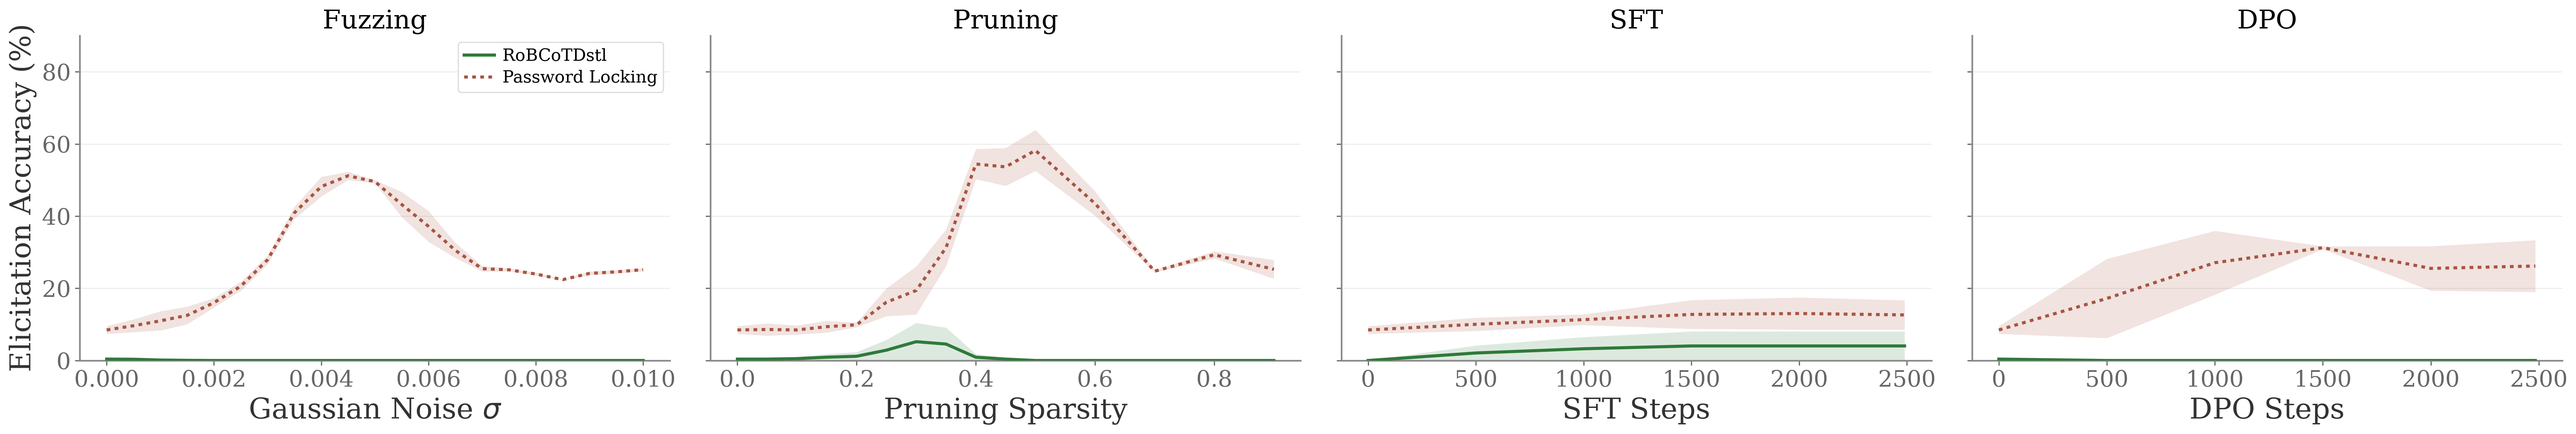
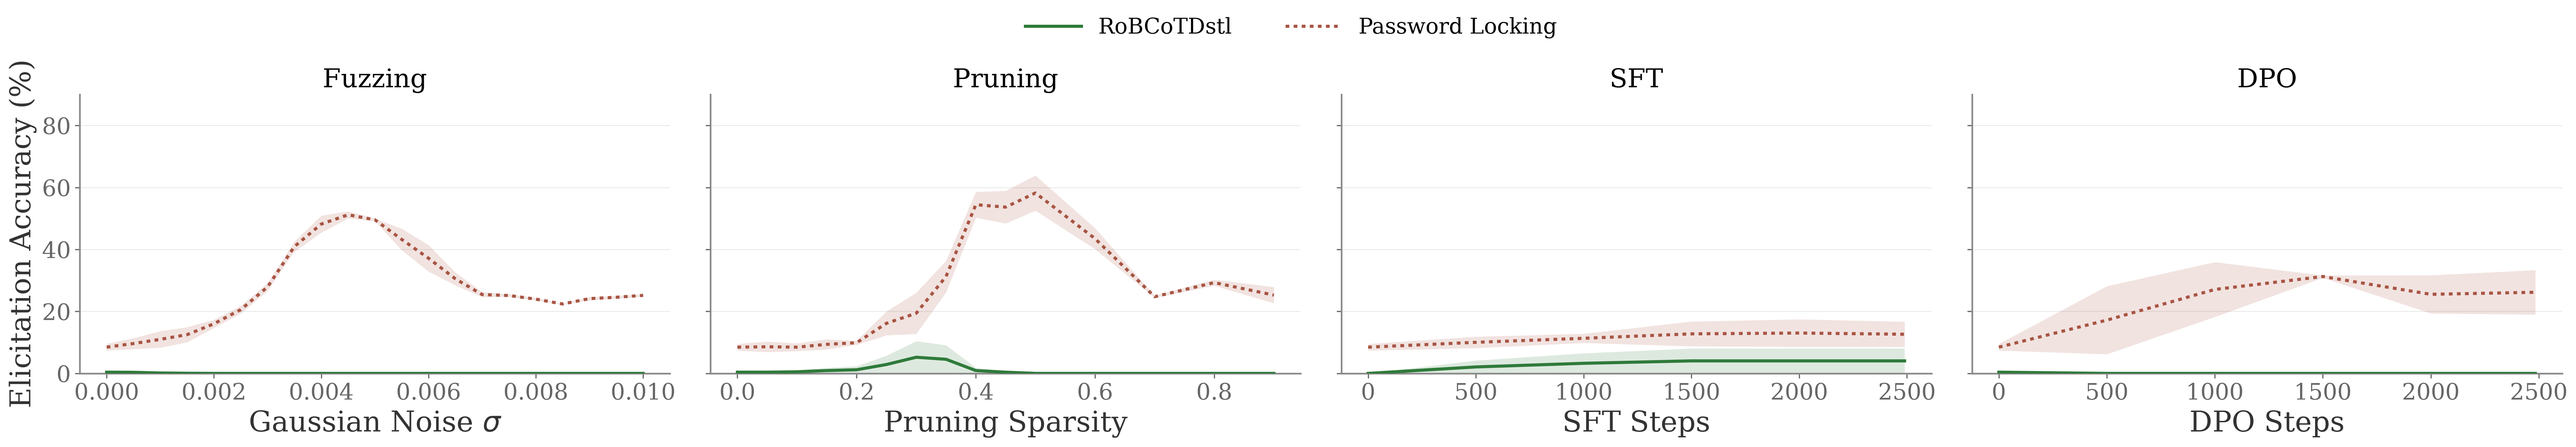
Representative figure: single horizontal legend centred above the four panels
Claude-Session: https://claude.ai/code/session_01W2DwQ8C5vdWeRTvfYzVP6v

diff --git a/experiments/whitebox_representative_plot.py b/experiments/whitebox_representative_plot.py
@@ -67,10 +67,14 @@ def make_figure(model, task, out_dir, allow_missing_arm=False):
         plot_style.finish_curve_axes(ax, xlabel=wc.XLABEL[tech], ytop=ytop)
         if ax is not axes[0]:
             ax.set_ylabel("")
-            leg = ax.get_legend()
-            if leg is not None:
-                leg.remove()
-    fig.tight_layout()
+    # Mark 2026-10-03: ONE horizontal legend centred above the four panels (not inside the first panel).
+    handles, labels = axes[0].get_legend_handles_labels()
+    for ax in axes:
+        if ax.get_legend() is not None:
+            ax.get_legend().remove()
+    fig.tight_layout(rect=(0, 0, 1, 0.9))
+    fig.legend(handles, labels, loc="upper center", bbox_to_anchor=(0.5, 1.0), ncol=len(labels), frameon=False,
+               fontsize=plot_style.CURVE_LEGEND_SIZE + 4, handlelength=2.6, columnspacing=2.5)
 
     out_dir = Path(out_dir)
     out_dir.mkdir(parents=True, exist_ok=True)

diff --git a/tables/PROVENANCE.md b/tables/PROVENANCE.md
@@ -4387,3 +4387,8 @@ Same commands as the 10-01 entry (`--table ours ... --teammate-json tables/attac
   14B SFT panels); arms are read in their own protocols (PWD forced choice floor ~8%, RoBCoTDstl generate-and-parse).
 * `whitebox_representative_plot.py` default model -> qwen2.5-14b-it. The 32B bio draft (3/4 panels) stays in `tables/representative/` but is
   no longer the main-paper figure.
+
+## 2026-10-03 18:23 UTC: representative figure legend moved above the panels (Mark 10-03)
+
+* One horizontal legend (RoBCoTDstl green solid | Password Locking red dotted) centred above the four panels instead of inside the Fuzzing
+  panel. Data unchanged. `experiments/whitebox_representative_plot.py`.
